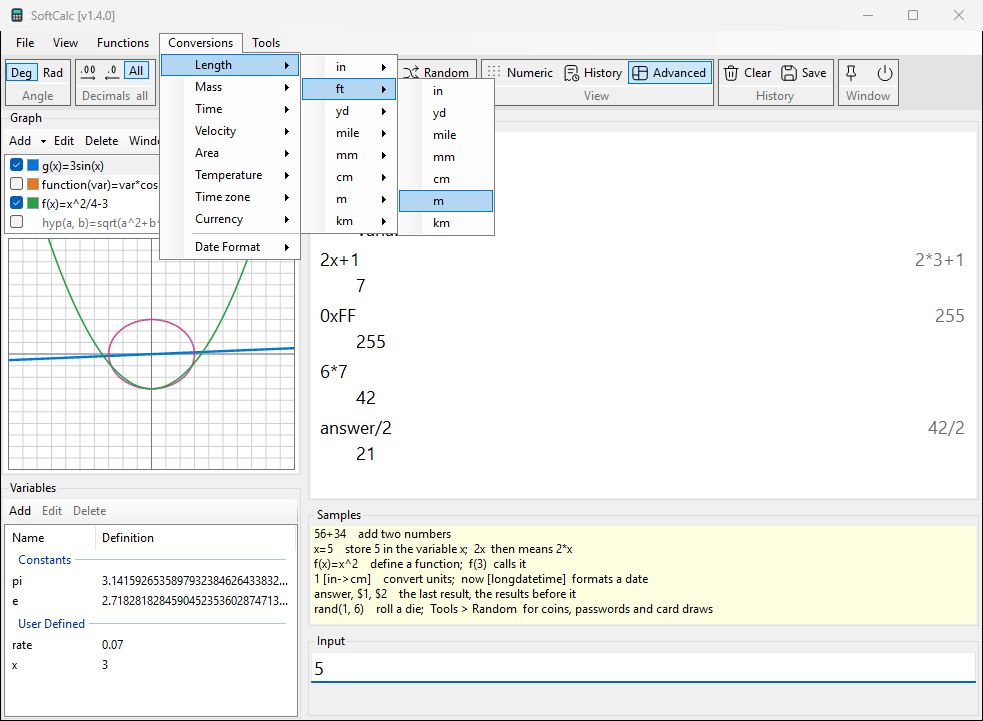
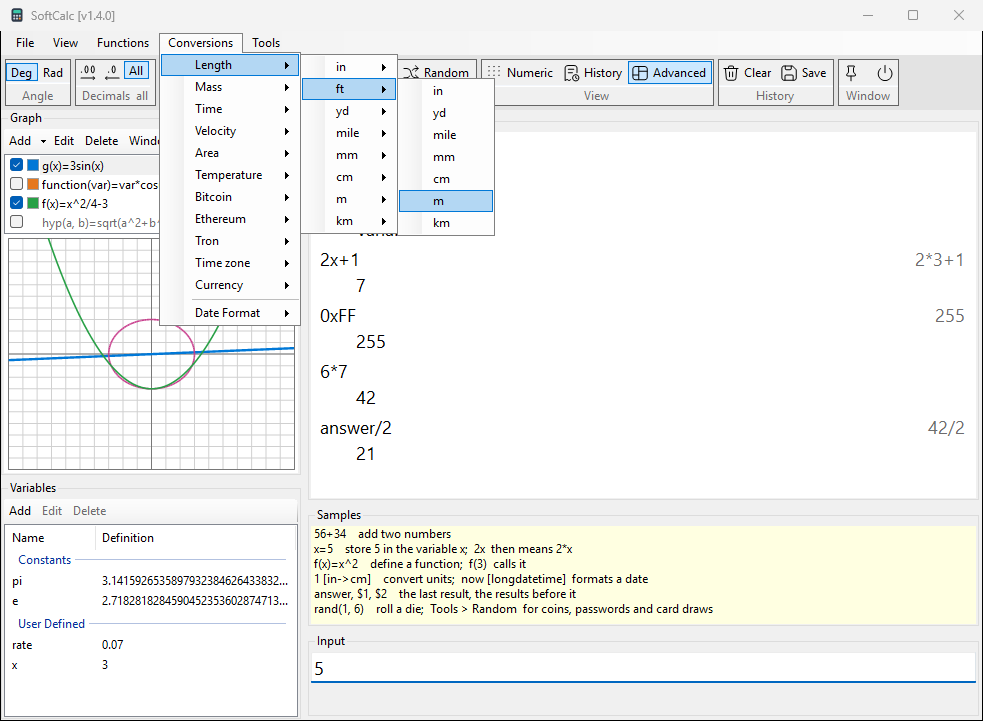
help: Cryptocurrency topic; Tools > Crypto renamed Cryptocurrency
The owner called the crypto topic done (2026-11-16), so its help is
written now: coin units (examples checked by the engine tests), prices,
the four tabs, own nodes, privacy. HelpShots pictures the window with
made-up balances and events, asking no service. F1 in the window opens
the topic. Currency, conversions, data files and errors mention coins.

Changed region(s): [[0.1526, 0.2441, 0.3052, 0.4577]]

diff --git a/tools/HelpShots/Program.cs b/tools/HelpShots/Program.cs
@@ -275,6 +275,7 @@ internal sealed class Shots(MainForm form, EngineSession session, string outDir,
 			random.Close();
 		}
 		await CardShotsAsync();
+		await CryptoShotsAsync();
 		using (var gallery = new GraphGallery(session))
 		{
 			gallery.StartPosition = FormStartPosition.Manual;
@@ -472,6 +473,73 @@ internal sealed class Shots(MainForm form, EngineSession session, string outDir,
 			Save(name, Program.Capture(random.Handle).Picture);
 		}
 		random.Close();
+	}
+
+	// Tools > Cryptocurrency (crypto_plan C0-C2a): made-up balances and events, nothing asked of any service.
+	// The addresses are public examples: EIP-55's sample, BIP84's test wallet, a Tron sample.
+	private async Task CryptoShotsAsync()
+	{
+		const string btc = "bc1qcr8te4kr609gcawutmrza0j4xv80jy8z306fyu";
+		const string eth = "0x5aAeb6053F3E94C9b9A09f33669435E7Ef1BeAed";
+		const string tron = "TJDENsfBJs4RFETt1X1W8wMDc8M5XnJhCe";
+		var day = new DateTime(2026, 11, 16, 2, 0, 0, DateTimeKind.Utc);
+		var prices = new CoinPrices
+		{
+			FetchedUtc = day.AddHours(3),
+			PerCoin = new()
+			{
+				["btc"] = new() { ["thb"] = 2_200_000m, ["usd"] = 65_000m },
+				["eth"] = new() { ["thb"] = 61_500m, ["usd"] = 1_815m },
+				["usdt"] = new() { ["thb"] = 33.9m, ["usd"] = 1m },
+				["trx"] = new() { ["thb"] = 10.2m, ["usd"] = 0.3m },
+			},
+		};
+		var prefs = new CryptoPrefs();
+		using var watcher = new CryptoWatcher(null, prefs, () => Task.FromResult<CoinPrices?>(prices));
+		var entries = (List<WatchEntry>)watcher.Entries;
+		entries.Add(new WatchEntry { Label = "Exchange deposit (BTC)", Address = btc, Balances = { ["BTC"] = 0.0215m }, CheckedUtc = day,
+			ChangedUtc = day.AddHours(2.5), Status = "OK" });
+		entries.Add(new WatchEntry { Label = "USDT on Tron", Address = tron, Balances = { ["TRX"] = 62.3m, ["USDT (TRC-20)"] = 233.51m },
+			CheckedUtc = day, ChangedUtc = day.AddHours(1), Status = "OK" });
+		entries.Add(new WatchEntry { Label = "Ethereum", Address = eth, Balances = { ["ETH"] = 0.3757m, ["USDT (ERC-20)"] = 0m }, CheckedUtc = day,
+			Status = "OK" });
+		var events = (List<WatchEvent>)watcher.Events;
+		events.AddRange(new[]
+		{
+			new WatchEvent(day.AddHours(2.6), "Exchange deposit (BTC)", WatchKind.Confirmed, "+0.0015 BTC confirmed (2 confirmations).", "aa"),
+			new WatchEvent(day.AddHours(2.5), "Exchange deposit (BTC)", WatchKind.Incoming, "+0.0015 BTC arrived (pending).", "aa"),
+			new WatchEvent(day.AddHours(1.2), "USDT on Tron", WatchKind.Suspicious, "A 0 USDT transfer with TJDEN5x9…XnJhCe: likely address "
+				+ "poisoning. Never copy an address from the history.", "bb"),
+			new WatchEvent(day.AddHours(1), "USDT on Tron", WatchKind.Incoming, "+120 USDT arrived (confirmed).", "cc"),
+		});
+		using var crypto = new CryptoWindow(prefs, watcher, _ => { }, () => Task.FromResult<CoinPrices?>(prices));
+		crypto.StartPosition = FormStartPosition.Manual;
+		crypto.Location = new Point(form.Right + 20, form.Top);
+		crypto.Show(form);
+		var tabs = Program.Field<TabControl>(crypto, "_tabs");
+		tabs.SelectedIndex = 0;
+		Program.Field<TextBox>(crypto, "_address").Text = eth.ToLowerInvariant();    // valid, with the one-case warning
+		crypto.ActiveControl = null;
+		await Task.Delay(300);
+		Save("crypto-address", Program.Capture(crypto.Handle).Picture);
+		tabs.SelectedIndex = 1;
+		Program.Field<TextBox>(crypto, "_balanceInput").Text = btc;
+		var report = new BalanceReport("Bitcoin", new[] { new AssetBalance("BTC", "btc", 0.0215m, 0.0015m) }, new[]
+		{
[3 lines of base64/hex data omitted]
+		}, Array.Empty<string>());
+		Program.Call(crypto, "ShowReport", report, prices);
+		crypto.ActiveControl = null;
+		await Task.Delay(300);
+		Save("crypto-balance", Program.Capture(crypto.Handle).Picture);
+		tabs.SelectedIndex = 2;
+		Program.Call(crypto, "ShowWatch");
+		crypto.ActiveControl = null;
+		await Task.Delay(300);
+		Save("crypto-watch", Program.Capture(crypto.Handle).Picture);
+		crypto.Close();
 	}
 
 	private async Task ModalShotAsync(string name, string caption, int settle)

diff --git a/ui/SoftCalc/UI/CryptoWatcher.cs b/ui/SoftCalc/UI/CryptoWatcher.cs
@@ -49,7 +49,7 @@ internal sealed class CryptoWatcher : IDisposable
 		_tray.Icon = SvgIcon.ProgramIcon();
 		var menu = new ContextMenuStrip();
 		menu.Items.Add("&Open SoftCalc", null, (_, _) => OpenMain?.Invoke());
-		menu.Items.Add("Crypto &watch...", null, (_, _) => OpenWatch?.Invoke());
+		menu.Items.Add("Cryptocurrency &watch...", null, (_, _) => OpenWatch?.Invoke());
 		menu.Items.Add("&Check now", null, async (_, _) => await CheckNowAsync());
 		menu.Items.Add(new ToolStripSeparator());
 		menu.Items.Add("E&xit SoftCalc", null, (_, _) => ExitApp?.Invoke());
@@ -228,7 +228,7 @@ internal sealed class CryptoWatcher : IDisposable
 		string text = string.Join(Environment.NewLine, events.Take(3).Select(e => events.Count == 1 ? e.Text : $"{e.Label}: {e.Text}"));
 		if (events.Count > 3)
 		{
-			text += Environment.NewLine + $"... and {events.Count - 3} more (Tools > Crypto > Watch).";
+			text += Environment.NewLine + $"... and {events.Count - 3} more (Tools > Cryptocurrency > Watch).";
 		}
 		_tray.ShowBalloonTip(10_000, title.Length > 60 ? title[..60] : title, text.Length > 250 ? text[..250] : text,
 			warn ? ToolTipIcon.Warning : ToolTipIcon.Info);

diff --git a/ui/SoftCalc/UI/MainForm.cs b/ui/SoftCalc/UI/MainForm.cs
@@ -272,7 +272,7 @@ internal sealed partial class MainForm : Form
 		}
 	}
 
-	// Tools > Crypto: address checks and fees, offline (design/crypto_plan.md C0)
+	// Tools > Cryptocurrency: address checks and fees, offline (design/crypto_plan.md C0)
 	private void OpenCryptoWindow(string? tab = null)
 	{
 		if (tab != null)
@@ -593,7 +593,7 @@ internal sealed partial class MainForm : Form
 		tools.DropDownItems.Add(new ToolStripMenuItem("&Graph...", null, (_, _) => OpenGraphWindow()));
 		tools.DropDownItems.Add(new ToolStripMenuItem("&Compound Interest...", null, (_, _) => OpenCompoundWindow()));
 		tools.DropDownItems.Add(new ToolStripMenuItem("&Random...", null, (_, _) => OpenRandomWindow()));
-		tools.DropDownItems.Add(new ToolStripMenuItem("Cr&ypto...", null, (_, _) => OpenCryptoWindow()));
+		tools.DropDownItems.Add(new ToolStripMenuItem("Cr&yptocurrency...", null, (_, _) => OpenCryptoWindow()));
 
 		_menu.Items.AddRange(new ToolStripItem[] { file, view, _functionsMenu, _conversionsMenu, tools });
 	}

diff --git a/ui/SoftCalc/UI/CryptoWindow.cs b/ui/SoftCalc/UI/CryptoWindow.cs
@@ -1,4 +1,4 @@
-// CryptoWindow.cs - Tools > Crypto: address checks, balances, watched addresses and fee sums (design/crypto_plan.md C0-C2a)
+// CryptoWindow.cs - Tools > Cryptocurrency: address checks, balances, watched addresses and fee sums (design/crypto_plan.md C0-C2a)
 //
 // Owner 2026-11-15: SoftCalc only checks addresses and (later, C1-C2)
 // balances: no seed, no private key, no signing. The Address tab checks
@@ -43,7 +43,7 @@ internal sealed partial class CryptoWindow : Form
 		_watcher = watcher;
 		_insert = insert;
 		_prices = prices ?? (() => Task.FromResult<CoinPrices?>(null));
-		Text = "Crypto";
+		Text = "Cryptocurrency";
 		Icon = SvgIcon.ProgramIcon();
 		ShowInTaskbar = false;
 		MinimizeBox = false;

diff --git a/ui/SoftCalc/Persistence/SettingsStore.cs b/ui/SoftCalc/Persistence/SettingsStore.cs
@@ -116,7 +116,7 @@ internal sealed class RandomPrefs
 	public WindowPlacement? Window { get; set; }
 }
 
-// Tools > Crypto (design/crypto_plan.md): the tab, the services and the window; never an address typed in it
+// Tools > Cryptocurrency (design/crypto_plan.md): the tab, the services and the window; never an address typed in it
 internal sealed class CryptoPrefs
 {
 	public string Tab { get; set; } = "address";    // address, balance, watch or fees

diff --git a/ui/SoftCalc/UI/HelpWindow.cs b/ui/SoftCalc/UI/HelpWindow.cs
@@ -305,6 +305,7 @@ internal sealed class HelpWindow : Form
 				{ Tag: string tag } when tag.StartsWith(TopicTag, StringComparison.Ordinal) => tag[TopicTag.Length..],
 				CompoundWindow => "finance",
 				RandomWindow => "random",
+				CryptoWindow => "cryptocurrency",
 				DefinitionEditor => "variables-functions",
 				CustomizeRibbonDialog => "ribbon",
 				MainForm => "getting-started",

diff --git a/help/18-cryptocurrency.md b/help/18-cryptocurrency.md
@@ -1,0 +1,166 @@
+# Cryptocurrency
+
+SoftCalc works out coin amounts and fees, checks that an address is
+written correctly, and shows balances of Bitcoin, Ethereum and Tron
+addresses. It only looks: it never asks for seed words or private keys,
+cannot send coins, and refuses text that looks like a secret.
+
+## Coin units
+
+Coins convert like other units:
+
+```calc
+1 [btc->sat]          => 100000000
+2500 [sat->btc]       => 0.000025
+21000*25 [gwei->eth]  => 0.000525
+1 [eth->gwei]         => 1000000000
+5 [trx->sun]          => 5000000
+```
+
+| coin | units |
+|---|---|
+| Bitcoin | `btc`, `sat` (0.00000001 btc) |
+| Ethereum | `eth`, `gwei` (0.000000001 eth), `wei` (10^-18 eth) |
+| Tron | `trx`, `sun` (0.000001 trx) |
+
+Conversions > Bitcoin, Ethereum and Tron put these tags in Input.
+
+## Prices
+
+A coin to a currency, or one coin to another, uses today's price:
+
+```calc
+0.01 [btc->thb]
+100 [usdt->thb]
+50000 [sat->usd]
+21000*25 [gwei->thb]
+1100000 [thb->btc]
+1 [btc->eth]
+```
+
+- Prices of BTC, ETH, TRX and USDT come from CoinGecko, in the same
+  currencies as the ECB rates. The result line shows when, faint:
+  `CoinGecko 14:05`.
+- SoftCalc asks only when a line needs a price, and keeps the answer
+  for 5 minutes. The request names coins and currencies, never an
+  address.
+- Without the internet the last prices are used and the note ends in
+  `, offline`.
+- One coin to another goes through the US dollar.
+- `usdt` is a price only; it has no small unit.
+
+## The Cryptocurrency window
+
+Tools > Cryptocurrency... has four tabs. Address and Fees work offline;
+Balance asks a service when you press Check; Watch asks every few
+minutes for the addresses you list.
+
+### Address
+
+![Address tab](img/crypto-address.light.png)
+
+Paste an address: it is checked as you type.
+
+- **Bitcoin**: `1...`, `3...`, `bc1q...`, `bc1p...` (Taproot), and test
+  network addresses. The checksum catches a wrong or missing character.
+- **Ethereum**: `0x` and 40 hex digits. Mixed case is a checksum
+  (EIP-55) and is checked; all one case has no checksum, so a typo would
+  not show: SoftCalc warns and gives the mixed-case form.
+- **Tron**: `T...`, with its checksum.
+- **Bitcoin xpub / ypub / zpub**: recognised as a wallet's public key.
+- Each check says which coins the address takes. USDT exists on several
+  networks: USDT sent on Ethereum (ERC-20) cannot reach a Tron address,
+  nor the other way round.
+- **As wallets write it** shows the address in its usual form; Copy puts
+  it on the clipboard.
+- Seed words and private keys are refused: the box is emptied at once
+  and nothing is kept.
+
+### Balance
+
+![Balance tab](img/crypto-balance.light.png)
+
+Type an address (or an xpub) and press Check. The line under the box
+says which service will see it.
+
+| address | shows | service |
+|---|---|---|
+| Bitcoin | balance, pending, recent payments with confirmations | mempool.space |
+| xpub / ypub / zpub | the whole wallet's balance and recent payments | mempool.space |
+| Ethereum | ETH and USDT (ERC-20); no payment history | PublicNode |
+| Tron | TRX and USDT (TRC-20), recent transfers | TronGrid |
+
+- Values in THB and USD use the same prices as the lines above.
+- Double-click a payment to copy its transaction id.
+- **xpub / ypub / zpub**: SoftCalc makes the wallet's addresses, receive
+  and change, and asks about each until 20 unused ones in a row. The
+  letter picks the address type (x: `1...`, y: `3...`, z: `bc1q...`); a
+  Taproot wallet's xpub needs Taproot chosen in the list. Payments come
+  from the 10 newest addresses used.
+- Public services limit how fast they answer. SoftCalc asks a second
+  apart and waits when a service says it is busy; a wallet with many
+  addresses takes a minute or more.
+
+**Services...** sets the three services, for example your own node:
+
+| network | works | does not work |
+|---|---|---|
+| Bitcoin | an Esplora API: the mempool app on Umbrel (`http://umbrel.local:3006/api`), blockstream.info | Bitcoin Core alone (no address index) |
+| Ethereum | any JSON-RPC node (`http://host:8545`) | |
+| Tron | TronGrid's API | a plain Tron node's HTTP API |
+
+A service on your own computer or home network is asked without the
+one-second gap. Defaults puts the public services back.
+
+### Watch
+
+![Watch tab](img/crypto-watch.light.png)
+
+Watch keeps an eye on addresses, such as an exchange's deposit address,
+and tells you when something happens.
+
+- **Add...** asks for a label and the address (one address; a whole
+  wallet by xpub is not watched). In the Balance tab, **Watch...** adds
+  the address in its box.
+- SoftCalc checks every 10 minutes while it runs, and every minute while
+  an incoming payment waits for its confirmations. The first check only
+  notes what is there.
+- News shows as a notification from SoftCalc's icon by the clock, and in
+  the list at the bottom:
+
+| news | when |
+|---|---|
+| arrived | a new incoming payment (pending, or with its confirmations) |
+| confirmed | it reached the confirmations set (Bitcoin 2, Tron 1) |
+| sent | a new outgoing payment |
+| balance | an Ethereum balance moved (no history there) |
+| warning (red) | a payment that looks like a trick, below |
+
+- **Warnings**: a transfer of 0, an incoming payment under the dust
+  value (1 USD), or an address that copies the first and last characters
+  of one you know. This is *address poisoning*: someone hopes you copy
+  their look-alike address from the history next time. Always copy an
+  address from the place that gave it to you, never from the history,
+  and check more than its ends. Leave dust unspent.
+- **Keep watching in the tray after SoftCalc is closed**: closing the
+  window leaves SoftCalc by the clock, still watching. Double-click the
+  icon to open it; right-click for Check now and Exit. File > Exit
+  always closes SoftCalc.
+- The list is kept in `crypto.json` in the data folder: addresses and
+  labels, nothing secret.
+
+### Fees
+
+Bitcoin: the size in vB times sat/vB; a payment from one SegWit input to
+two outputs is about 141 vB. Ethereum: gas times gwei; sending ETH takes
+21,000 gas, a token such as USDT about 65,000. **Insert** puts the sum in
+Input, such as `141*10 [sat->btc]`.
+
+## Privacy
+
+- Address and Fees never use the internet.
+- Balance and Watch send each address, with your IP address, to the
+  service named on the tab. That service can link the addresses you
+  check to each other and to you; an xpub shows it every address of the
+  wallet, past and future. Your own node avoids this.
+- Price requests carry no address.

diff --git a/design/TODO.md b/design/TODO.md
@@ -480,7 +480,11 @@ ends 1:1, the drag insert line is visible enough on dark.
         Binance; money only passes through), so C2a watches single
         addresses; xpub/descriptor watching (C2b) waits for the
         hardware-wallet project, which needs an own node.
-  - [ ] Help for the crypto window and the coin units, once the owner
-        calls the topic done.
+  - [x] Help 2026-11-16: help/18-cryptocurrency.md (coin units, prices,
+        the Address / Balance / Watch / Fees tabs, own nodes, privacy),
+        three pictures; menu renamed Tools > Cryptocurrency... Owner
+        2026-11-16: the crypto topic is done; full service (C2b, own node,
+        Tron through an own node, Lightning invoices) comes with the
+        hardware-wallet project.
     The hardware-wallet discussion went to
     D:\Projects\esp32-hardware-wallet\NOTES.md (a separate project).

diff --git a/help/16-errors.md b/help/16-errors.md
@@ -26,6 +26,8 @@ $9                    => ERROR:No result $9
 | `Cannot convert in to kg` | the units are from different groups |
 | `Unknown unit 'qq'` | a unit name SoftCalc does not know (see *Unit conversions*) |
 | `No ECB rate for BGN` | the ECB does not publish that currency |
+| `Coin prices unavailable` | no coin prices yet and CoinGecko could not be reached (see *Cryptocurrency*) |
+| `No CoinGecko price of TRX in ISK` | CoinGecko gave no price for that pair |
 | `No result $9` | there are fewer results than that in History |
 | `'sin' is a reserved name` | built-in names cannot be redefined |
 | `'f' cannot call itself` | a function may not use its own name |

diff --git a/help/07-currency.md b/help/07-currency.md
@@ -21,7 +21,9 @@ its result line, for example `ECB 2026-11-05`.
 - Before its first fetch SoftCalc has the rates of the day it was built;
   a currency line then fetches, and shows the built-in rates with
   `, offline` when that fails.
-- This is the only time SoftCalc uses the internet.
+- Apart from coin prices and the Cryptocurrency window's Balance and
+  Watch tabs (section *Cryptocurrency*), this is the only time SoftCalc
+  uses the internet.
 - A code the ECB does not publish gives `No ECB rate for ...`.
 
 ## With the menu

diff --git a/help/14-data-files.md b/help/14-data-files.md
@@ -16,6 +16,8 @@ File > About SoftCalc... shows the folder in use, with **Open Folder**.
 | `history.jsonl` | History, the newest 1000 entries |
 | `definitions.pcf` | your variables and functions |
 | `rates.xml` | the last currency rates |
+| `prices.json` | the last coin prices |
+| `crypto.json` | addresses watched in the Cryptocurrency window, and what happened |
 | `engine\` | the calculation engine, unpacked on first start |
 
 ## What is kept

diff --git a/help/06-conversions.md b/help/06-conversions.md
@@ -42,6 +42,7 @@ A conversion you use often can get its own ribbon button
 | Temperature | `c f k` |
 | Time zone | `utc local` (section *Dates and time*) |
 | Currency | ISO codes such as `usd thb eur` (section *Currency*) |
+| Coins | `btc sat`, `eth gwei wei`, `trx sun` (section *Cryptocurrency*) |
 
 - Inside a tag, long names work for time (`[hours->minutes]`) and
   some area units (`sqft`, `m^2`, `hectare`, `acres`, `sqwa`).
